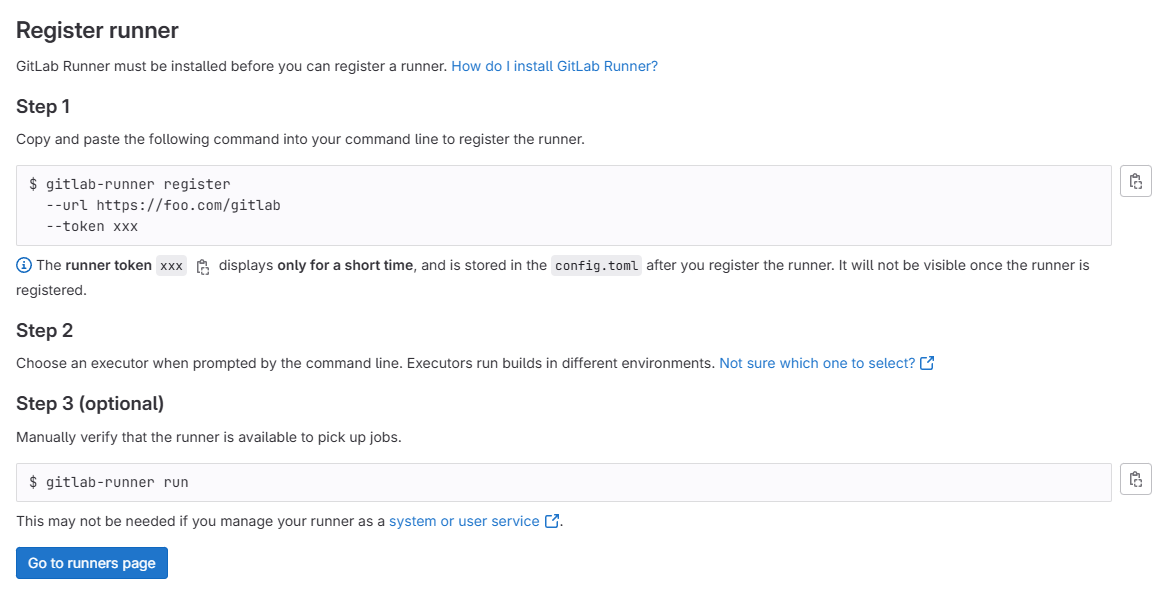
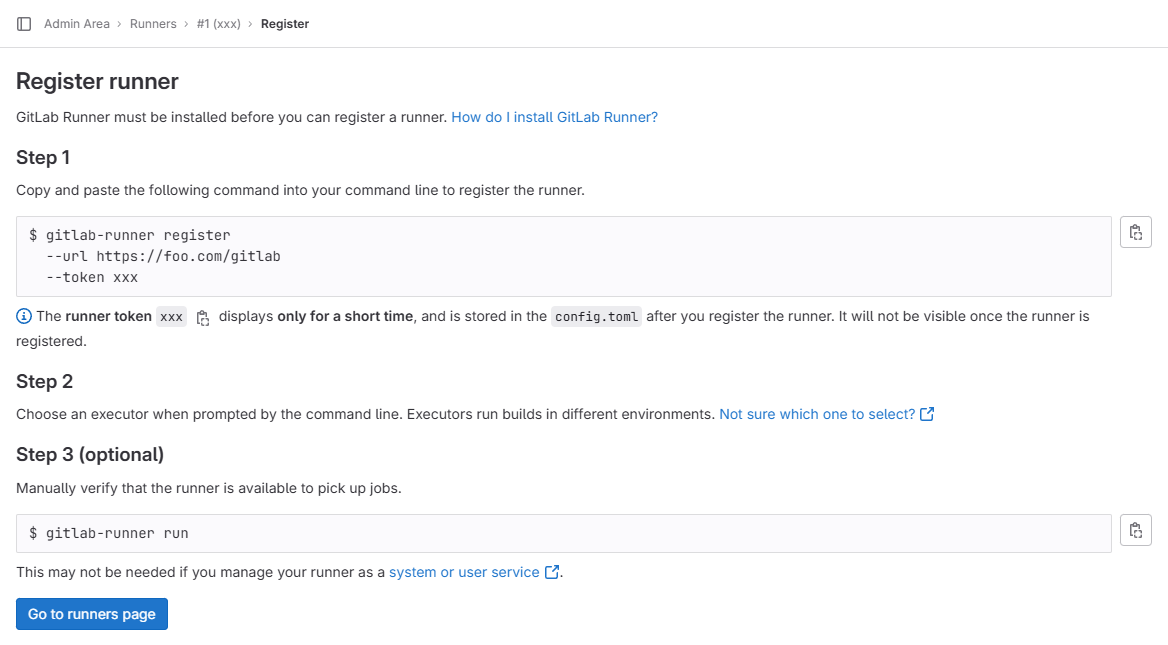
Switch to instance runners

diff --git a/deploy/services/runner/GITLAB-RUNNER.md b/deploy/services/runner/GITLAB-RUNNER.md
@@ -23,13 +23,11 @@ In either case, follow the steps as outlined below.
 First, we will obtain the token necessary to register the runner for the GitLab
 instance.
 
-1. Navigate to the _DTaaS_ group in your instance and select the project
-   named after your GitLab username.
-1. In the project menu, go to `Settings` and select `CI/CD`.
-1. Expand the **Runners** section and click on _New project runner_.
-1. Under **Platforms**, select the Linux operating system.
-1. Under **Tags**, add a `linux` tag.
-1. Click on _Create runner_. A runner authentication token will be generated,
+1. On the __Admin__ dashboard, navigate to __CI / CD > Runners__.
+1. Select __New instance runner__.
+1. Under __Platform__, select the Linux operating system.
+1. Under __Tags__, add a `linux` tag.
+1. Select __Create runner__. A runner authentication token will be generated,
    be sure to save it somewhere.
 
 You should see the following screen:
@@ -91,13 +89,12 @@ container respectively, depending on your installation scenario:
    ```
 
 Once the container starts, the runner within it will run automatically. You can
-tell if the runner is correctly configured by opening your project on the
-GitLab instance, and navigating to `Settings > CI/CD > Runners` to see
-something like this:
+tell if the runner is correctly configured by navigating to
+`CI/CD > Runners` on your Admin dashboard and seeing something like this:
 
-![Status indicator under Assigned Project Runners](./runner-activation.png)
+![Status indicator under Admin Area > Runners](./runner-activation.png)
 
-You will now have a GitLab runner ready to accept jobs for the **DTaaS** group.
+You will now have a GitLab runner ready to accept jobs for the GitLab instance.
 
 ## Resource Allocation
 
